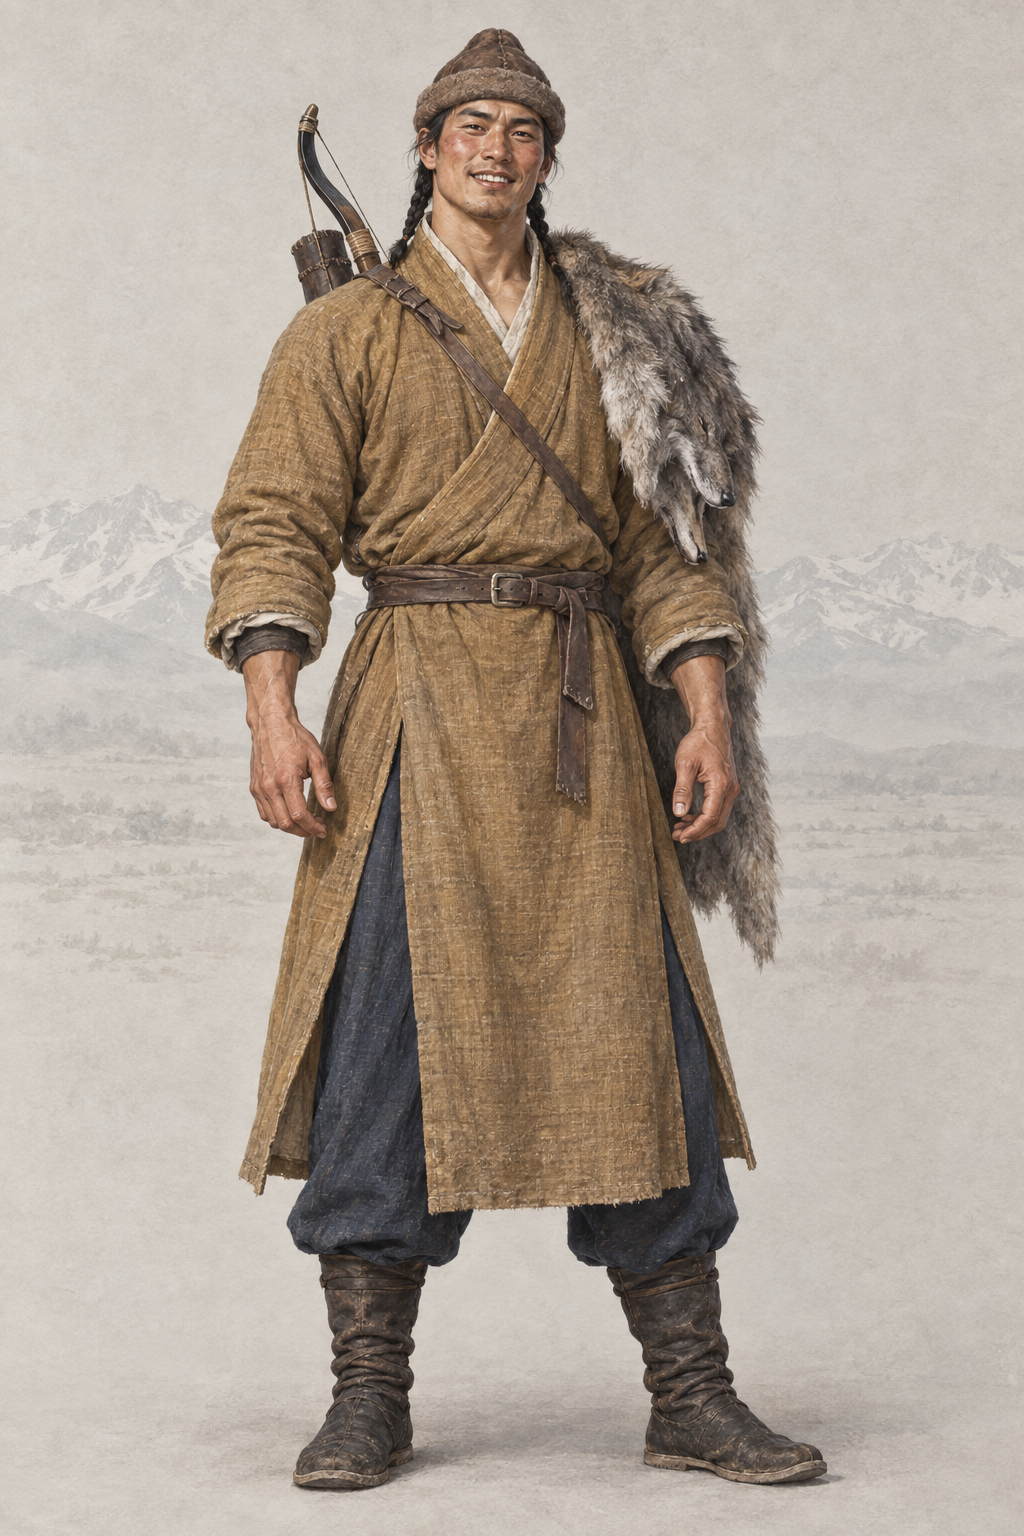
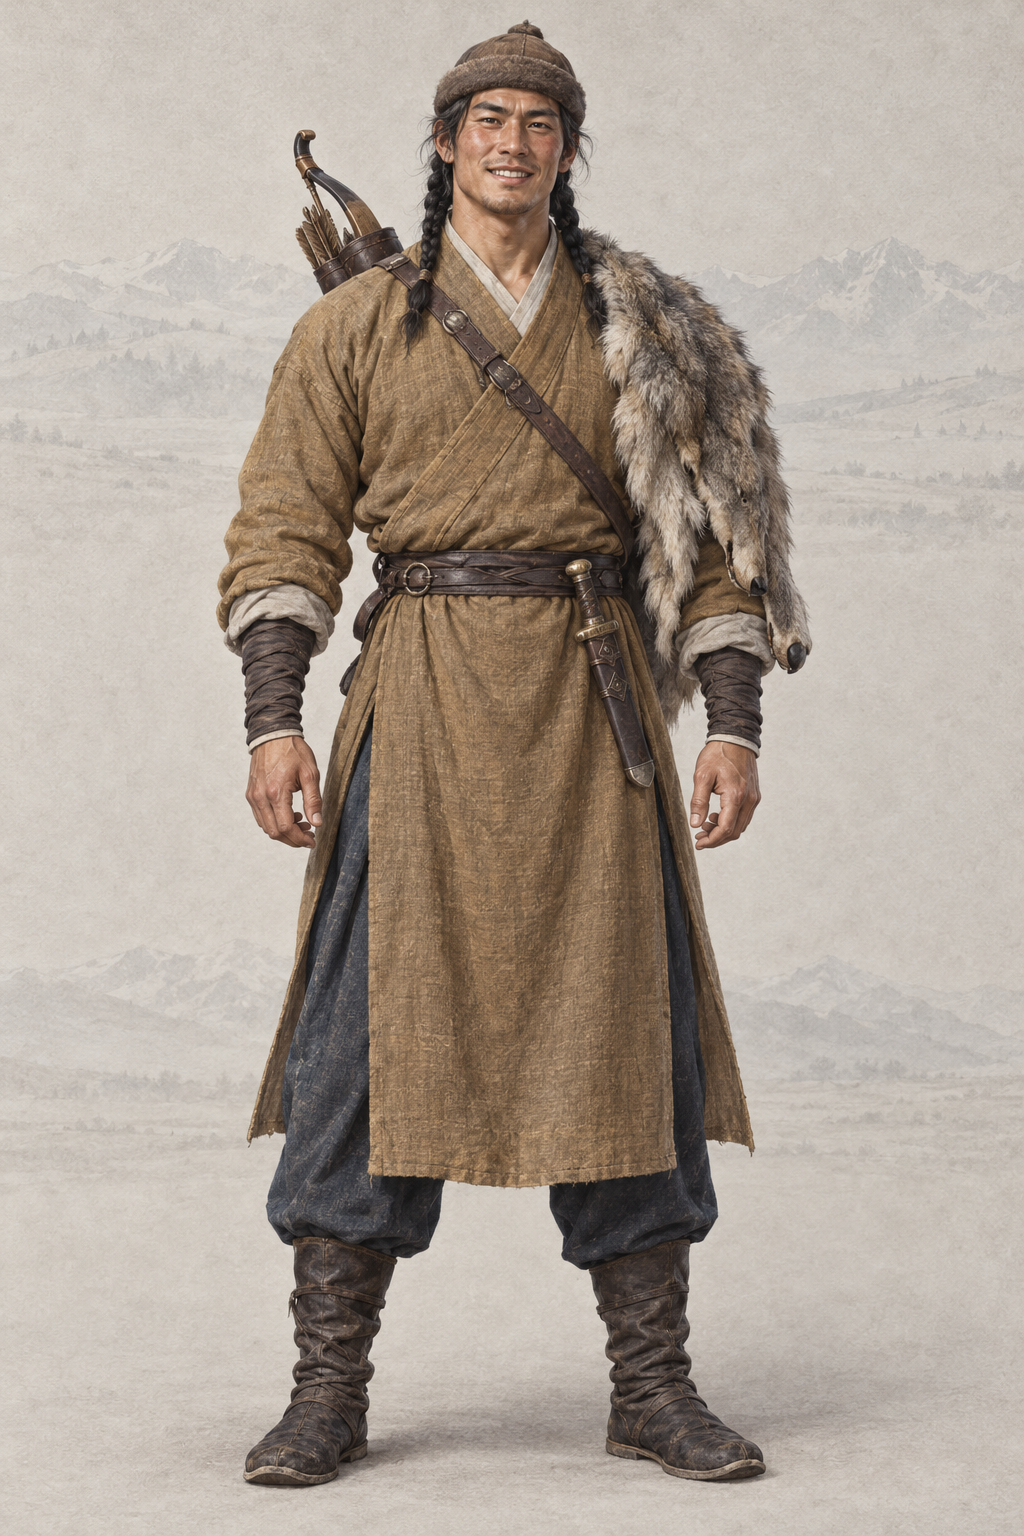
assets(character): por_npc_supu__ch10_youth_base 苏普（codex · AR-32 文字 + 基线）
本人无可用剧照或可靠游戏头像，只用文字与两张同性别基线重出；提示词写回、frontmatter 加 classic_ref。

diff --git a/assets/default/prompts/characters/ch10-baima/npc_supu.md b/assets/default/prompts/characters/ch10-baima/npc_supu.md
@@ -13,14 +13,38 @@ references:
   use: 已实际查看的项目男性画风参考，仅取水墨笔触、低饱和设色、暖浅灰纸底与左上柔光；基线当前candidate，按作者本轮授权使用且不更改审批，不继承萧峰的旧脸、年龄体型、裹巾衣装或密集摄影布纹。
 status: redo
 redo_reason: "白马改唐代（DES-baima-tang 合入）：旧图是清初剃发留辫 / 瓜皮帽 / 清式袍褂，且男女各自同脸；按唐代名录 §2 的发式、服色与标志物重出，脸部按 C 组报告 §1 区分。"
+codex_prompt_rev: 2026-10-02
 reference_upload:
 - assets/default/baseline/character/male/ref_npc_linghuchong__ch05_base01.png
-codex_prompt_rev: 2026-10-02
+- assets/default/baseline/character/male/ref_npc_xiaofeng__ch01_base01.png
+classic_ref: "无（白马已改唐代 AR-26，不用清代剧照；《金庸群侠传》里没有可靠的本人头像，只用文字与基线，按 docs/design/catalog/npcs-ch10-baima.md §2 与 chapters/10-baima.md §8.9 的唐代设定）"
 ---
 
 # 苏普 · 《白马啸西风》（ch10）
 
 ## Gemini 提示词
+
+> 2026-10-02 AR-32 重出（8 号出图员，codex exec · image_gen）：本人没有可用的经典剧照或可靠游戏头像，只用文字与两张同性别画风基线（缩小版 JPEG，放在最后上传）；按原著与设定重写人物描写，去 AI 味、禁止幼态。上一版保留在下一节作历史。
+
+```text
+生成一张 2:3 竖幅全身人物立绘：单人、单一视角、完整全身——头顶、双手、双脚和手中器物的两端都在画面内，四周留出自然空白；人物站姿自然，身体基本朝向正面，头部端正（不歪头、不仰不俯），镜头平视。
+【参考图】随提示词上传的两张参考图都是本项目的立绘画风基线：画风、用色、光线、质感和暖浅灰纸底加淡水墨背景以它们为准；它们只管画风，不取长相、年龄、发型、服饰和姿势。人物的长相和造型完全按下面的文字来画。
+【画风】写实手绘古风人物插画，与本项目写实武侠角色立绘同一画风，像功力深厚的画师用细腻笔触画出的真实人物。手绘插画质感，不是 CG 渲染：不要过度光滑的皮肤、完美对称的五官、塑料高光、过度锐利的发丝；保留自然的笔触和细微不完美。皮肤有真实质感——细小毛孔、细纹、晒痕和自然的左右不对称，不磨皮、不油亮；头发是一缕缕自然的发丝和少量碎发；布料看得出经纬纹理、厚薄和自然垂坠的褶皱，带穿用过的轻微旧化，但完整不破烂；整体设色低饱和、沉稳；柔和的自然光从左上方照来，明暗过渡自然，不打舞台光、轮廓光或美颜柔光。不是照片，不是三维渲染，不是动漫或游戏 CG，也不是油画（没有厚涂笔触和画布纹理）。
+【背景】不透明的暖浅灰色纸底，只在远处有极淡的水墨远山（西域雪山与草坡的远影）和薄雾，大面积留白；人物与背景明暗分明、轮廓边缘干净完整（后续要自动抠图），水墨和纸纹只在背景里，不侵入人物和衣服；脚下只有很淡的一点接触阴影。
+【人物】苏普，《白马啸西风》中铁延部（唐代庭州草原上的牧部）的青年勇士、苏鲁克之子，善角力与骑射；与阿曼相爱的时期。
+【时代】唐代武周长安年间（约 702 年）的西域，西州—庭州一带（游戏设定）。服饰按唐代：汉人束发、戴软幞头或裹巾，穿圆领窄袖袍、半臂，骑行可穿翻领胡服；草原牧部（铁延部，突厥—铁勒背景的虚构牧部）穿翻领窄袖袍、长裤、软靴，编辫、戴毡帽。
+【年龄与体态】约二十岁的成年青年男子，身材高大魁梧，宽肩粗颈、胸背厚实，是摔跤好手的体格。
+【经典造型】草原青年勇士：两条粗辫收在低矮的毡帽里、赭黄翻领袍、左肩披一张狼皮、背后斜挎弓囊；笑容憨直开朗，英俊有朝气，是草原姑娘们喜欢的那种小伙子。
+【面容】草原牧民的面相：宽脸、颧骨高而饱满；浓黑的眉毛；眼睛细长、单眼皮，眼神明亮憨直；鼻梁挺直、鼻头圆厚；嘴宽、笑时露出整齐的牙齿；风吹日晒的红褐色皮肤，两颊有高原红；唇上一层淡淡的绒须。英俊、憨厚、开朗，不是汉族书生脸。
+【发式】黑发编成两条粗辫，辫梢收进一顶低矮的褐色毡帽里。
+【服饰】赭黄色翻领窄袖长袍（翻领敞开，袍长过膝，两侧开衩），腰束皮带，深蓝色长裤，软皮高靴；左肩披着一张灰褐色狼皮。
+【道具】背后斜挎一个皮制弓囊（装着一张短复合弓）；腰间挂一把入鞘的短刀；双手自然半握在身侧。
+【姿态与神情】正面站立，开朗地看着前方，笑容憨直。
+【不要】画面里不要任何文字、题款、印章、签名、水印、边框、分格或多视图；不要第二个人；不要幼态（童颜、娃娃脸、婴儿肥、儿童或少年身材、大头小身）；不要塑料感皮肤、磨皮美颜、网红脸（尖下巴大眼高鼻的模板脸）、过度对称、浓妆、偶像式打光、蜡像感；不要照片质感、三维渲染或动漫大眼；不要歪头、斜镜头；不要多指、缺指（设定的伤残除外）、手与器物粘连或悬空；衣襟必须右衽（穿着者的左襟压在右襟上），不要左衽（设定为少数民族服制的除外），不要水平镜像；不要现代物品、发光特效、法阵或能量光。不要清代剃发留辫、瓜皮帽、马褂、旗装或补服；不要明代网巾、宋代直脚幞头；不要现代民族礼服、伊斯兰式缠头或面纱、清真寺等后世宗教符号；不要用夸张的五官或肤色来表现族属。不要偶像化的俊美脸；不要和桑斯儿同一张脸。
+【画风基线】随提示词上传的参考图里，最后两张是本项目的立绘画风基线：只参考它们的画风、用色、光线、质感和暖浅灰纸底加淡水墨的背景处理，整体画风必须与它们一致——精细写实的数字手绘插画，不是油画，不要厚涂笔触和画布纹理。基线图只取画风，不取长相：不要照搬基线图里人物的长相、年龄、发型、服饰和姿势。
+```
+
+## 白马唐代化版 Gemini 提示词（2026-10-02 凌晨，人物线 2 号；AR-32 重出之前，历史，不再用于出图）
 
 > 2026-10-02 白马唐代化重出（人物线 2 号）：依 `docs/design/catalog/npcs-ch10-baima.md` §2（逐人发式 / 服色 / 标志物）、`docs/design/chapters/10-baima.md` §8.9（唐代视觉语法）与 `tools/agents/reports/REVIEW-portraits-C-ch10-14.md` §1（脸部要点）改写；一律成年、去 AI 味。本轮出图只用下面这一段；下文旧稿是清初设定，只作历史与考据保留，不再用于出图。
 
